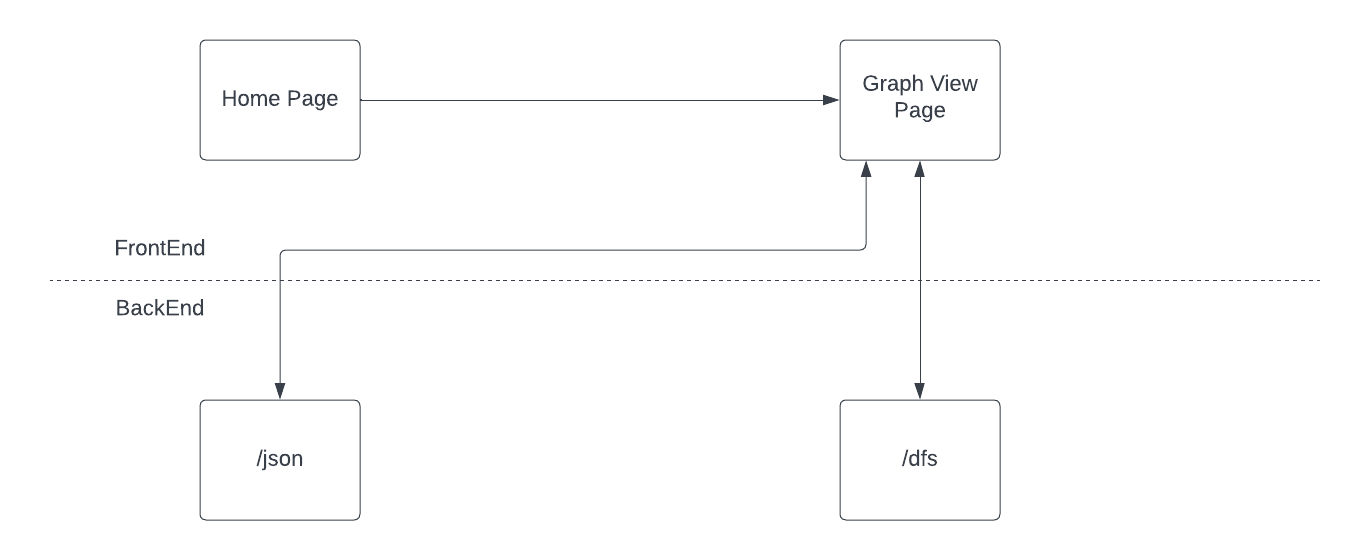
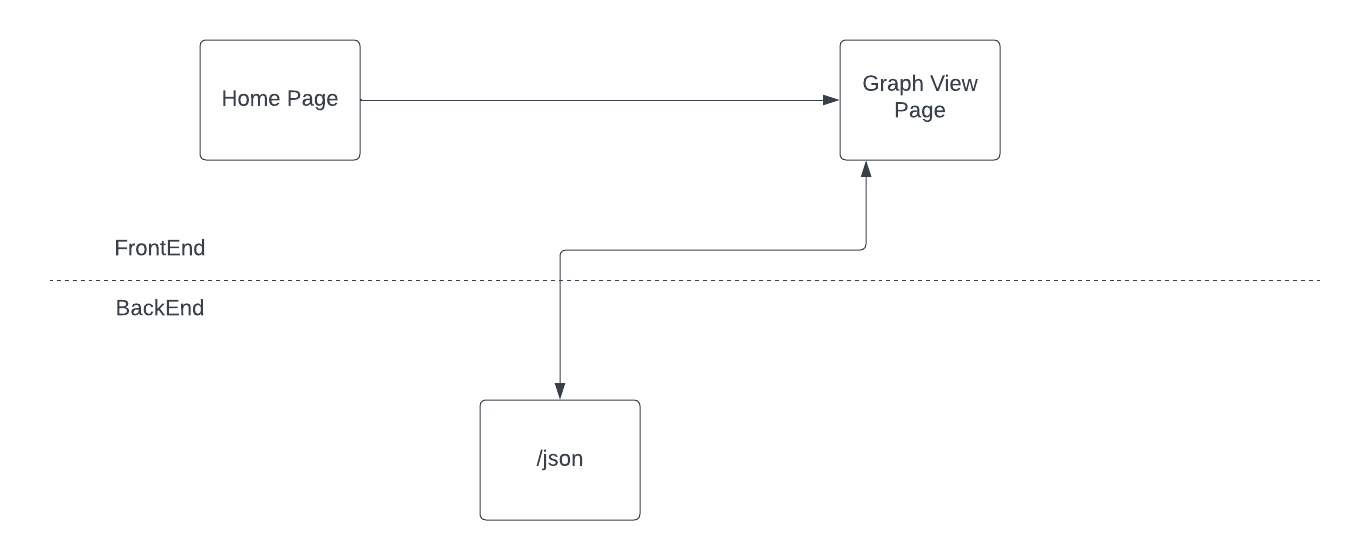
Adjusted docs to match new arch

diff --git a/docs/webAppArch.md b/docs/webAppArch.md
@@ -22,11 +22,7 @@
 - index.js
 - This api takes in the amount of nodes to be generated and creates json that will be consumed by the front end
 - It randomly generates edges between each node, so each graph is different and can be more complex than others
-
-### /dfs
-
-- This will take in the graph created by /json and will then return json that contains the moves needed for dfs
-- Helps the front end know which node should be colored as current
+- Also adds the steps needed for dfs visualization
 
 
 ## Architecture

diff --git a/docs/exampleJson.md b/docs/exampleJson.md
@@ -55,5 +55,5 @@
 }
 ```
 
-### /dfs
+### dfs
 TODO
